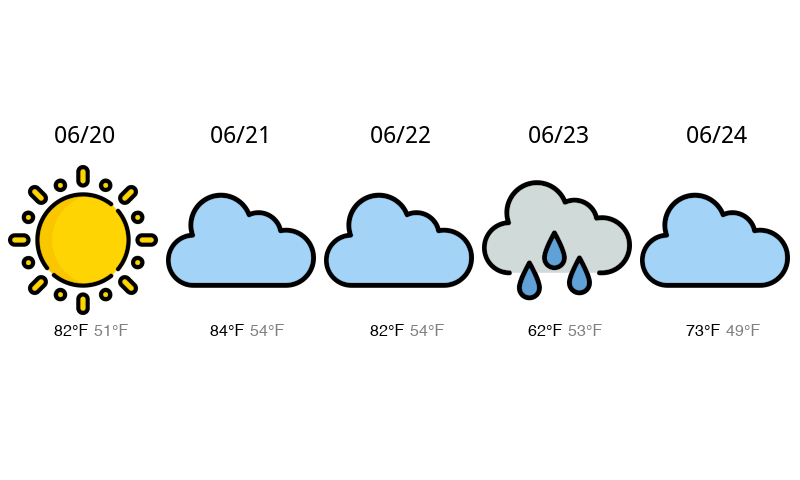
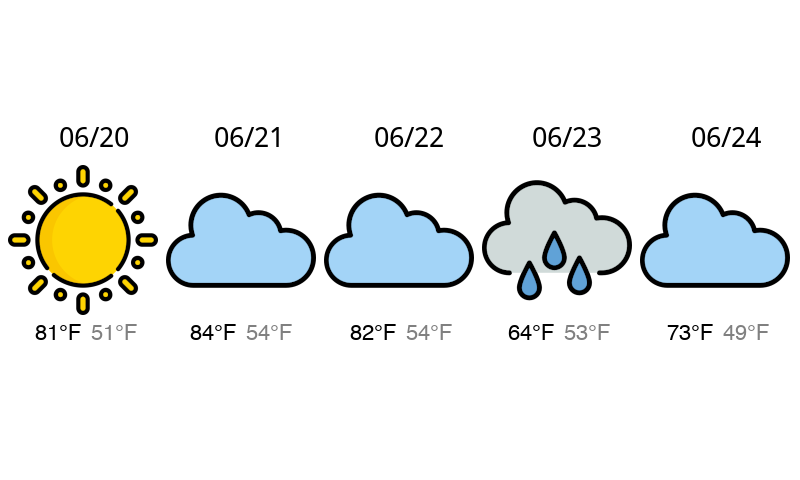
adjust temp margins

diff --git a/assets/tools/forecast_builder/WeatherData.py b/assets/tools/forecast_builder/WeatherData.py
@@ -4,7 +4,7 @@ import requests
 import json
 from PIL import Image, ImageDraw, ImageFont
 
-DEBUG = False
+DEBUG = True
 
 CWD = os.getcwd()
 ICON_DIR = CWD + "/assets/images/weather_icons/"
@@ -16,8 +16,8 @@ CENTER_HEIGHT = HEIGHT / 2
 CENTER = (CENTER_WIDTH, CENTER_HEIGHT)
 SPACING = 8
 TODAY = datetime.today().strftime("%m-%d-%Y")
-FONT_SIZE_HEADER = 24
-FONT_SIZE_SUB = 16
+FONT_SIZE_HEADER = 28
+FONT_SIZE_SUB = 22
 FONT_HEADER = ImageFont.truetype(CWD + "/assets/fonts/Font.ttc", FONT_SIZE_HEADER)
 FONT_SUB = ImageFont.truetype(CWD + "/assets/fonts/Helvetica.ttc", FONT_SIZE_SUB)
 
@@ -70,13 +70,13 @@ class WeatherData:
                 fill="black",
             )
             draw.text(
-                (pos + text_w / 2 + SPACING * 2, CENTER_HEIGHT + h / 2 + SPACING),
+                (pos + text_w / 2 - SPACING, CENTER_HEIGHT + h / 2 + SPACING),
                 max_temp,
                 font=FONT_SUB,
                 fill="black",
             )
             draw.text(
-                (pos + text_w / 2 + SPACING * 7, CENTER_HEIGHT + h / 2 + SPACING),
+                (pos + text_w / 2 + SPACING * 6, CENTER_HEIGHT + h / 2 + SPACING),
                 min_temp,
                 font=FONT_SUB,
                 fill="gray",
